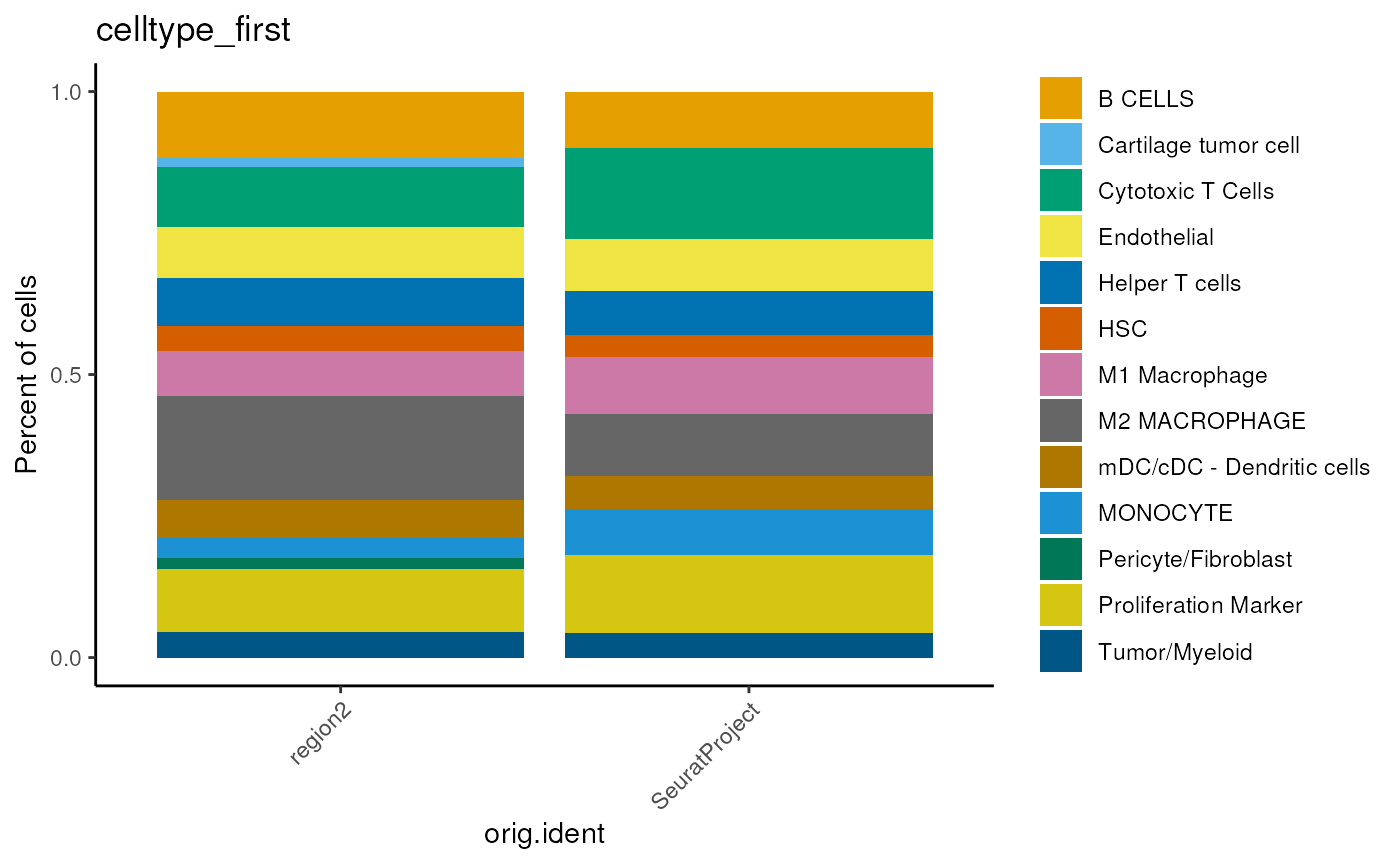
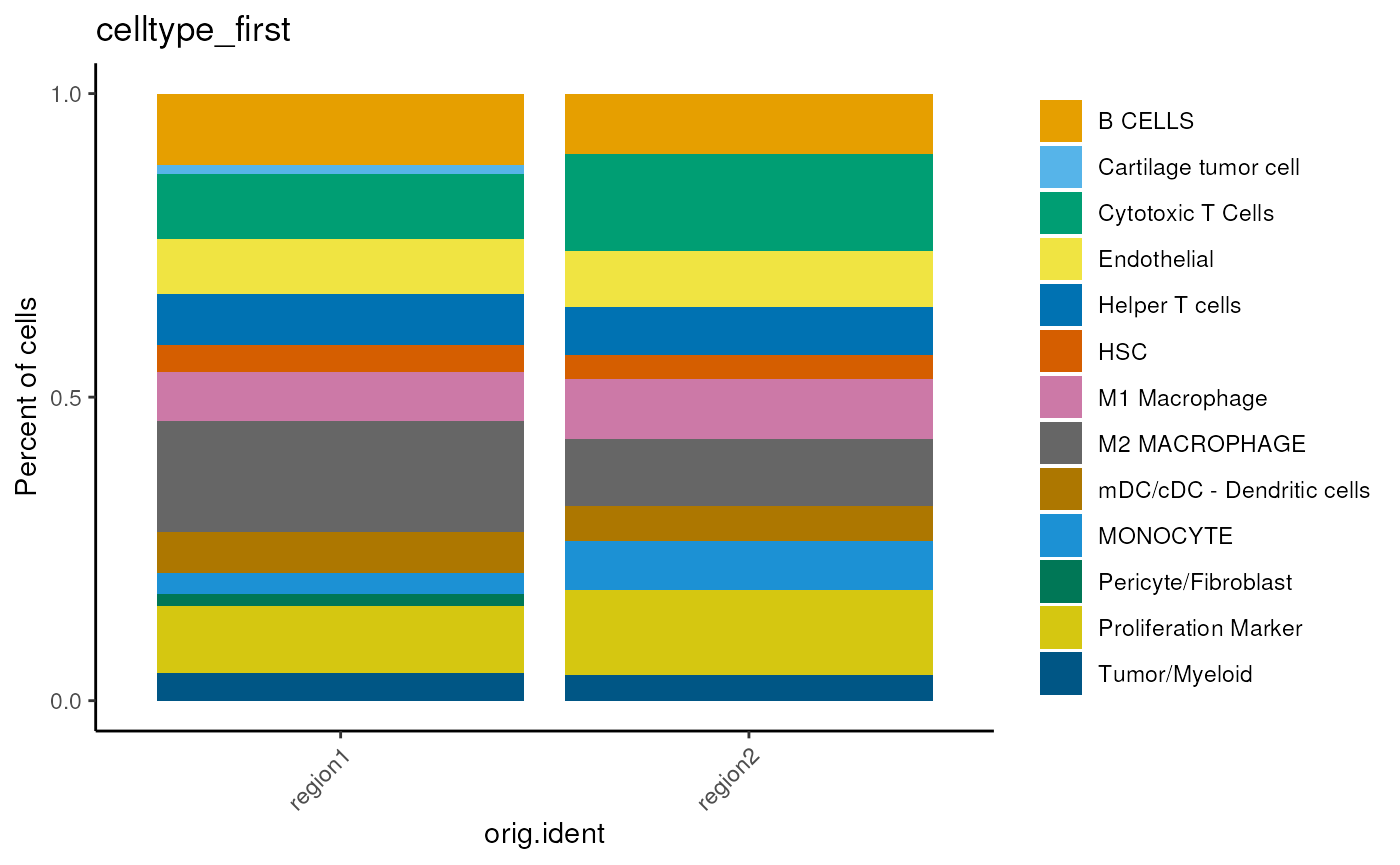
Deploying to gh-pages from @ jianhong/cdQuPath@564dac6917345662e55a7f7e800837c81eeff6ab 🚀

diff --git a/articles/cdQuPath.html b/articles/cdQuPath.html
@@ -562,7 +562,7 @@ create a merged dataset.</p>
 <span><span class="va">seu2</span> <span class="op">&lt;-</span> <span class="fu"><a href="../reference/detectCellType.html">detectCellType</a></span><span class="op">(</span><span class="va">seu2</span><span class="op">)</span></span>
 <span><span class="va">seu2</span><span class="op">$</span><span class="va">pca</span> <span class="op">&lt;-</span> <span class="cn">NULL</span> <span class="co"># to advoid different pca columns error.</span></span>
 <span><span class="va">seu</span><span class="op">$</span><span class="va">orig.ident</span> <span class="op">&lt;-</span> <span class="st">'region1'</span></span>
-<span><span class="va">seu</span><span class="op">$</span><span class="va">orig.ident</span> <span class="op">&lt;-</span> <span class="st">'region2'</span></span>
+<span><span class="va">seu2</span><span class="op">$</span><span class="va">orig.ident</span> <span class="op">&lt;-</span> <span class="st">'region2'</span></span>
 <span><span class="va">mergedSeu</span> <span class="op">&lt;-</span> <span class="fu"><a href="https://rdrr.io/r/base/merge.html" class="external-link">merge</a></span><span class="op">(</span><span class="va">seu</span>, <span class="va">seu2</span>, merge.dr <span class="op">=</span> <span class="cn">TRUE</span><span class="op">)</span></span>
 <span><span class="va">mergedSeu</span></span></code></pre></div>
 <pre><code><span><span class="co">## An object of class Seurat </span></span>
